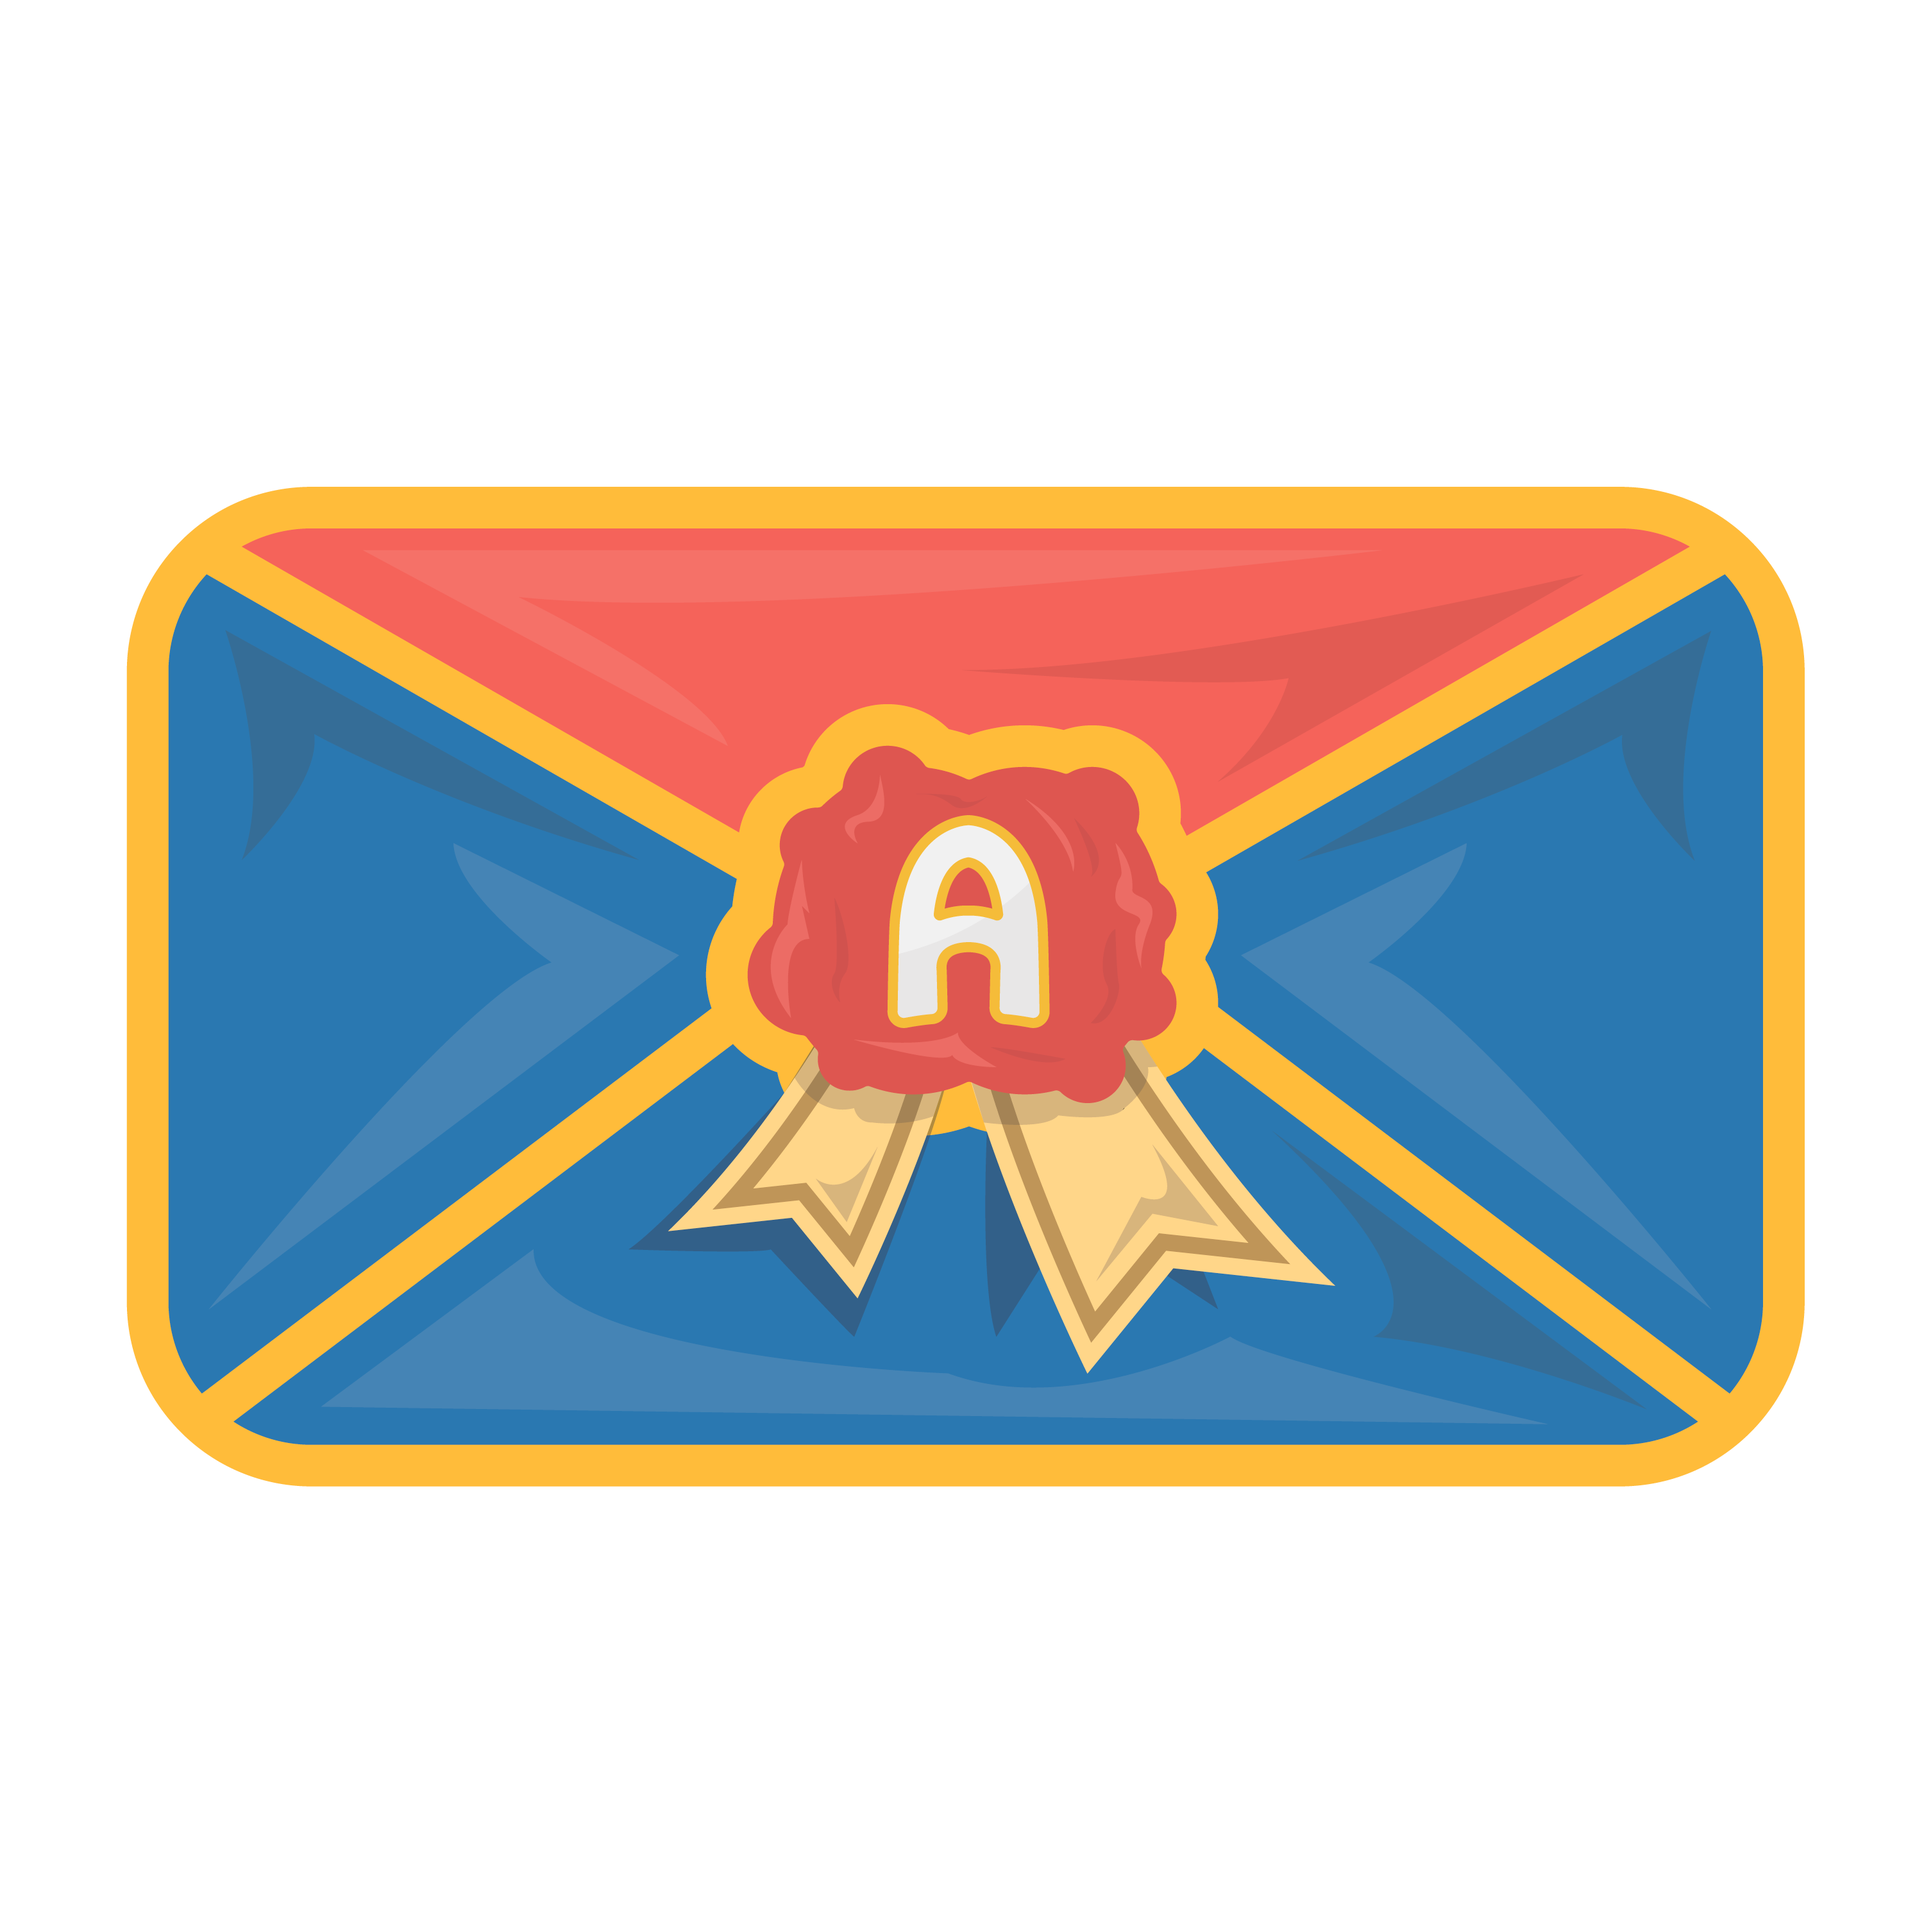
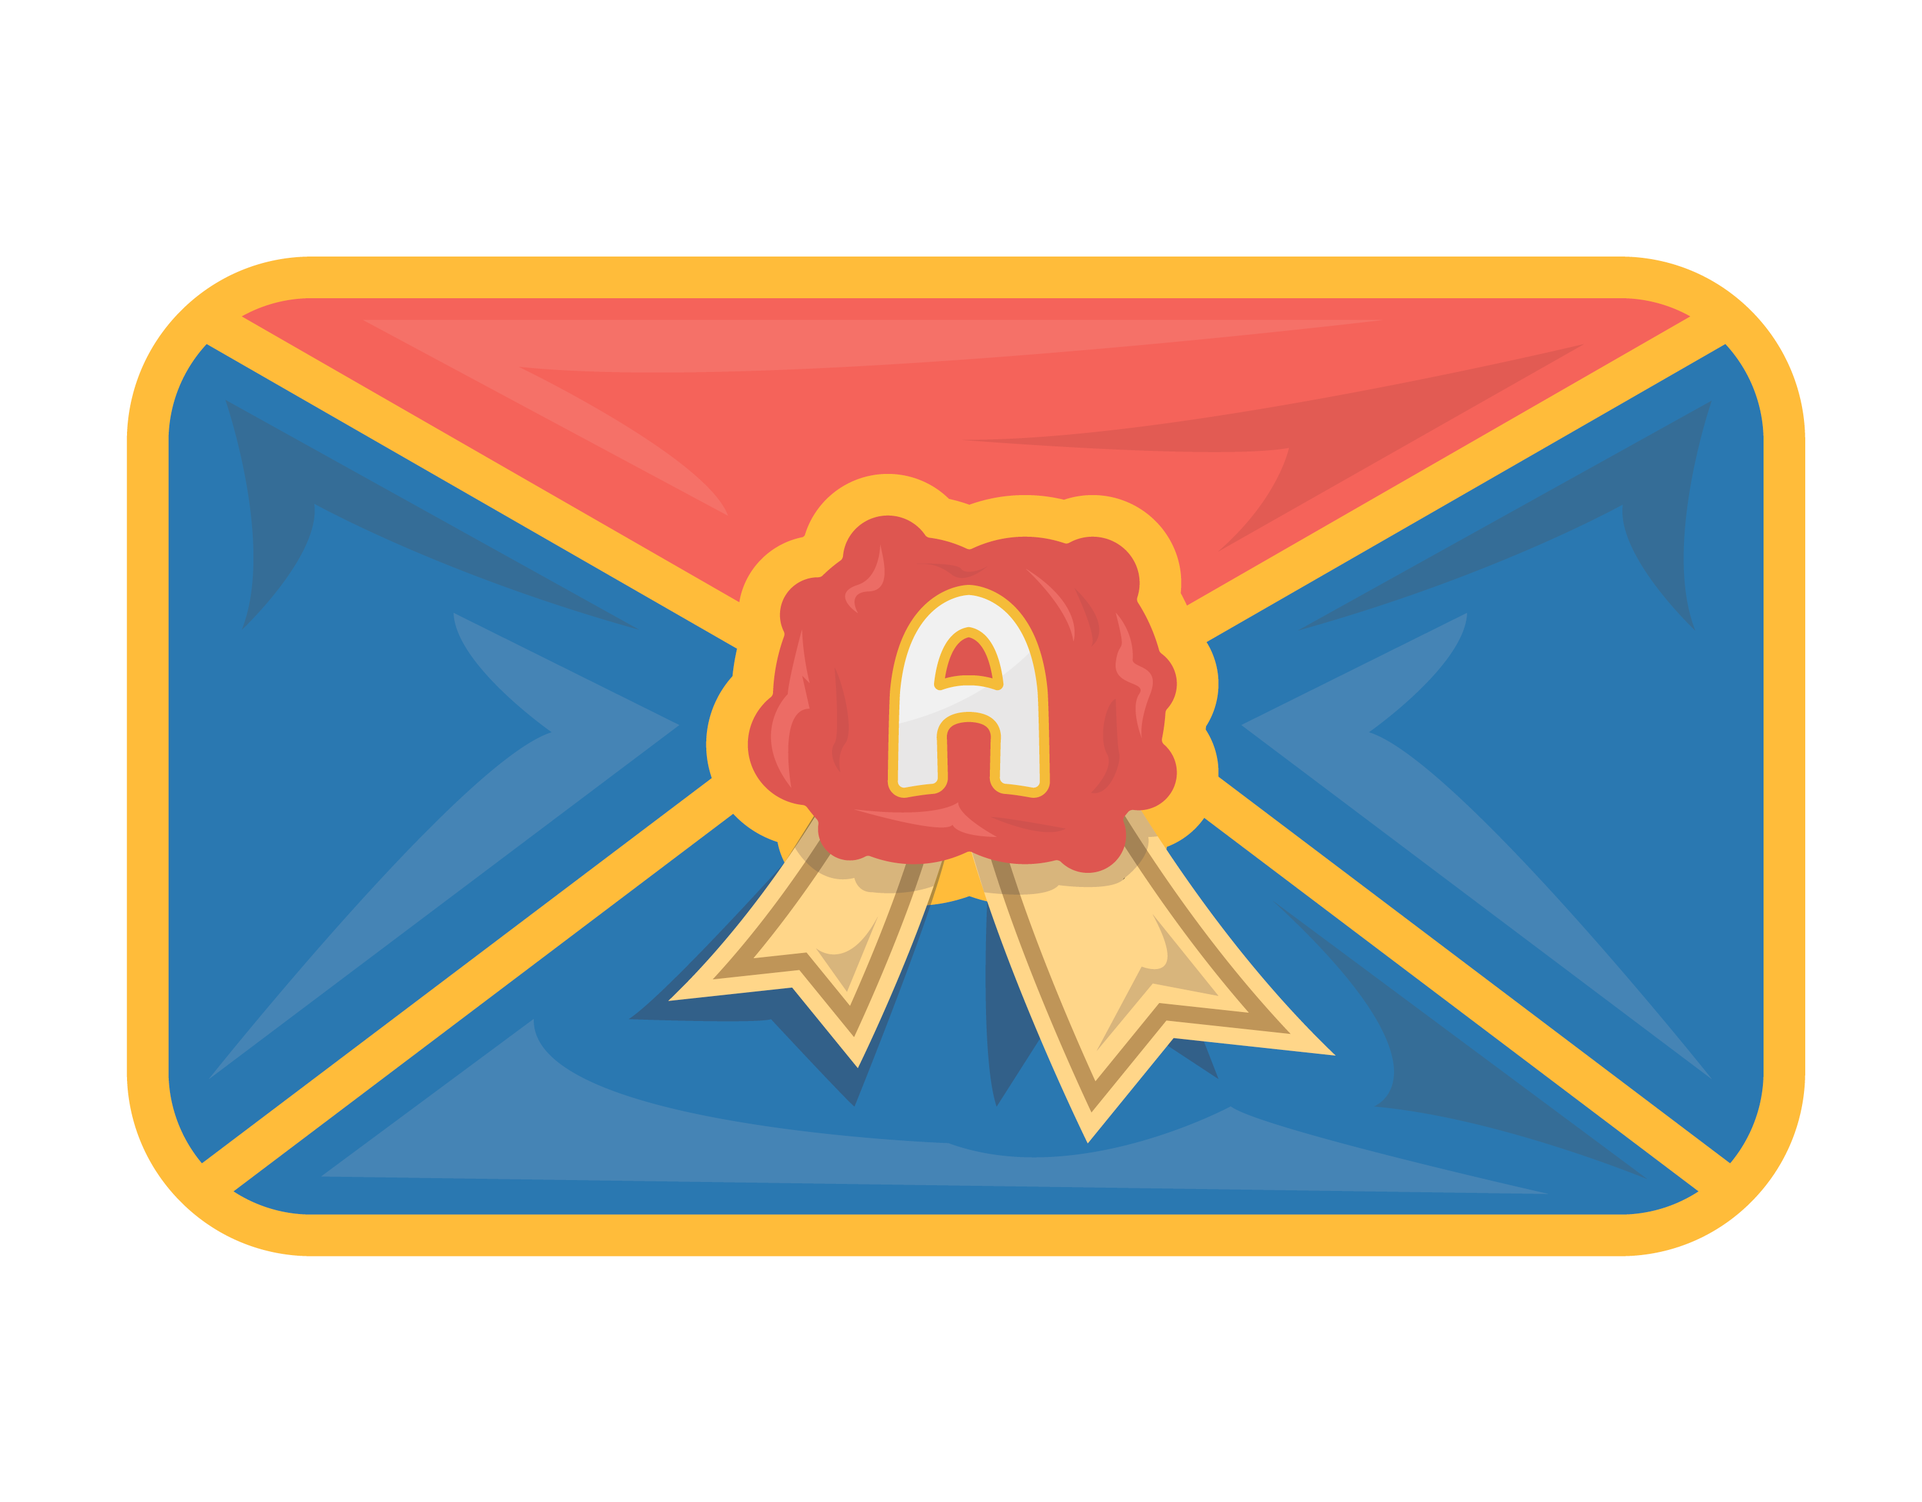
delete checkbox and change image

diff --git a/src/components/Send.tsx b/src/components/Send.tsx
@@ -110,7 +110,7 @@ class SendComponent extends React.Component<SendProps, SendState> {
             <Panel id="send" className="header">
                 <PanelHeader>Предложить</PanelHeader>
                 <img
-                    className="Persik"
+                    className="imageSend"
                     src={'./send.png'}
                 />
                 <FormLayout
@@ -141,12 +141,12 @@ class SendComponent extends React.Component<SendProps, SendState> {
                         value={this.state.anecdoteText}
                         onChange={this.handleTextAreaChange}
                     />
-                    <Checkbox
+                    {/* <Checkbox
                         value={this.state.isAnonymous}
                         onChange={this.changeAnonymousStatus}
                     >
                         Анонимно
-                    </Checkbox>
+                    </Checkbox> */}
                     <Button
                         size="xl"
                         level="secondary"

diff --git a/src/assets/style.css b/src/assets/style.css
@@ -214,12 +214,12 @@
     color: var(--snippet_border)
 }
 
-.Persik {
+.imageSend {
     display: block;
     width: 30%;
     max-width: 400px;
     min-width: 270px;
-    margin: 20px auto;
+    margin: 0 auto;
 }
 .loader{
     display: block;
